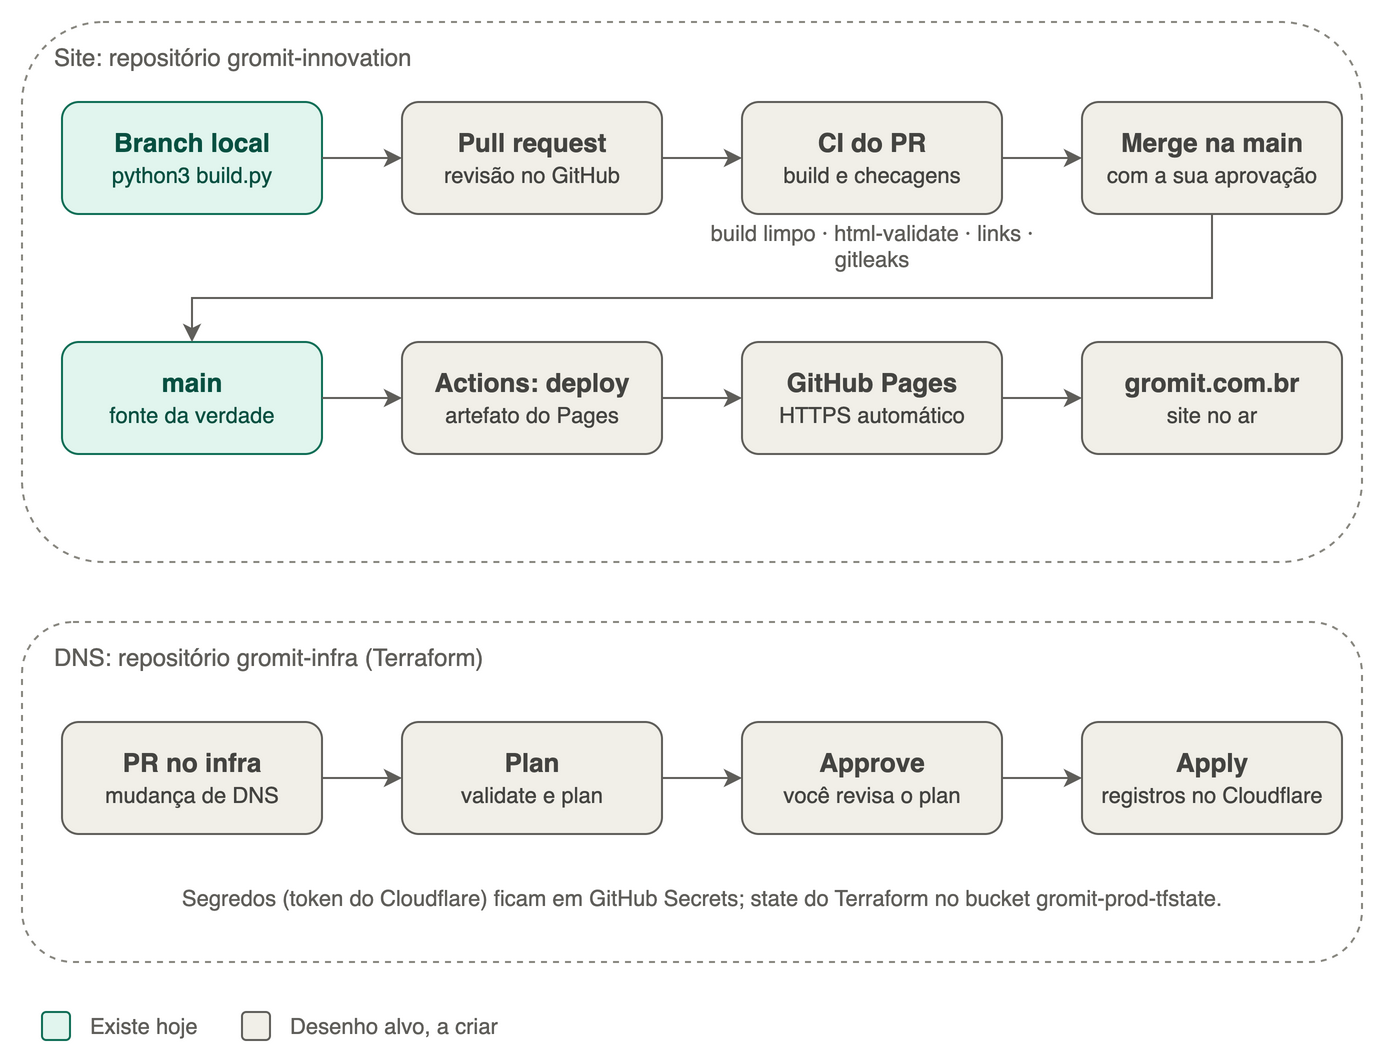
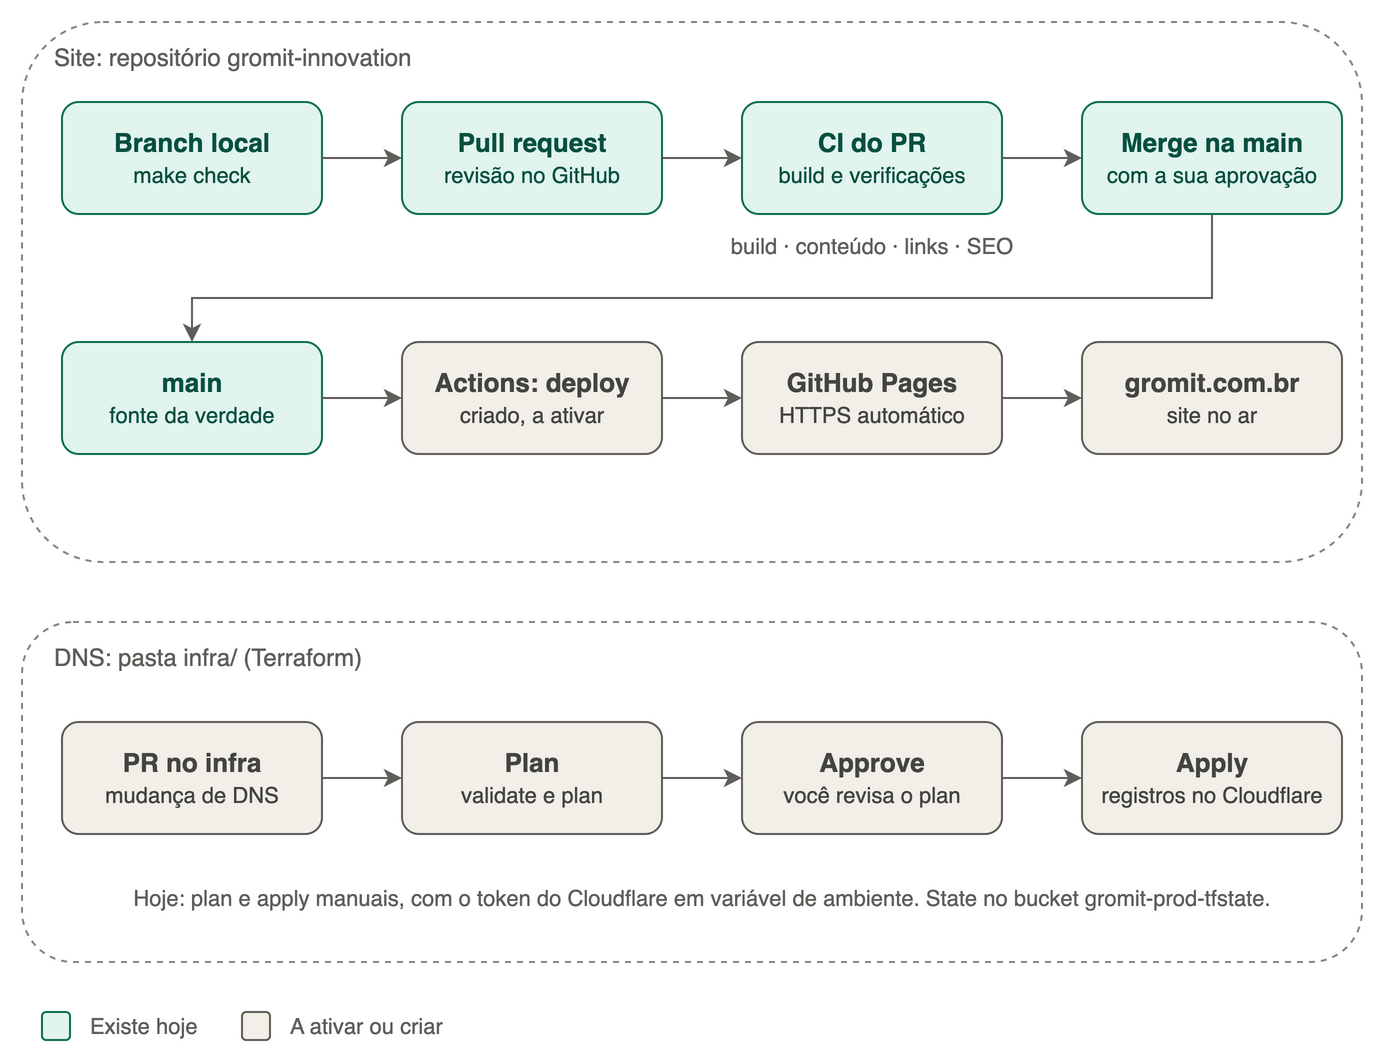
docs: README com stack e diagramas draw.io atualizados

diff --git a/README.md b/README.md
@@ -1,0 +1,142 @@
+# Gromit Innovation: site institucional
+
+Site estático da **Gromit Innovation** (consultoria em SRE, DevOps e Cloud), publicado em
+[gromit.com.br](https://gromit.com.br). Sem framework e sem banco de dados: o conteúdo mora em
+`frontend/src`, um build em Python gera o HTML e o resultado é servido pelo GitHub Pages.
+
+> Estado atual: repositório **privado**, site **ainda não publicado**. Veja [Publicação](#publicação).
+
+## Arquitetura
+
+Os diagramas são arquivos [draw.io](https://www.drawio.com) editáveis, em [`docs/`](docs). Cada PNG tem o `.drawio` ao lado.
+
+### Visão geral
+![Visão geral](docs/gromit-site-arquitetura.png)
+
+### Infraestrutura e entrega
+Domínio no Registro.br, DNS no Cloudflare (só DNS, sem proxy), hospedagem no GitHub Pages, e-mail no iCloud+.
+Fonte: [`gromit-site-infra.drawio`](docs/gromit-site-infra.drawio)
+
+![Infraestrutura](docs/gromit-site-infra.png)
+
+### Dev e arquitetura do código
+Fonte: [`gromit-site-dev-arquitetura.drawio`](docs/gromit-site-dev-arquitetura.drawio)
+
+![Dev e arquitetura](docs/gromit-site-dev-arquitetura.png)
+
+### CI/CD
+Fonte: [`gromit-site-cicd.drawio`](docs/gromit-site-cicd.drawio). Em verde o que existe, em cinza o que falta ativar.
+
+![CI/CD](docs/gromit-site-cicd.png)
+
+## Tecnologias
+
+| Camada | Tecnologia | Uso |
+|---|---|---|
+| Front-end | HTML5, CSS3, JavaScript (sem framework) | Páginas, tema com custom properties, responsivo, `prefers-reduced-motion`, reveal com `IntersectionObserver` |
+| Front-end | Google Fonts (Space Grotesk, JetBrains Mono) | Tipografia |
+| Front-end | SVG | Favicon |
+| Build e qualidade | Python 3.12, só biblioteca padrão | `build.py` gera o site; `check.py` valida conteúdo, links e SEO |
+| Build e qualidade | Make, EditorConfig | Atalhos locais e estilo de código |
+| CI/CD | GitHub Actions | Verificação em PR e deploy no Pages |
+| CI/CD | Dependabot, CODEOWNERS | Atualização das Actions e do provider, revisor padrão |
+| Hospedagem | GitHub Pages | Servidor estático com HTTPS automático |
+| Infra como código | Terraform (>= 1.5) e provider Cloudflare (~> 5) | Registros DNS do site |
+| Infra como código | Google Cloud Storage | State remoto e versionado (`gromit-prod-tfstate`) |
+| Domínio e DNS | Registro.br, Cloudflare | Registro do domínio e zona DNS |
+| E-mail | iCloud+ (domínio próprio) | Caixa `@gromit.com.br` |
+| Formulário | Formspree | Envio do formulário de contato, sem servidor próprio |
+| Documentação | draw.io | Diagramas versionados |
+
+## Estrutura
+
+```
+.
+├── frontend/              site
+│   ├── src/               conteúdo: uma página .html por arquivo (título e descrição em comentário)
+│   ├── public/            copiado como está para o dist: css, js, logos, favicon, CV, CNAME
+│   ├── build.py           layout (head, menu, rodapé), sitemap e robots; gera frontend/dist
+│   ├── check.py           verificações de conteúdo, links e SEO
+│   └── dist/              saída do build (não versionada)
+├── infra/                 Terraform: registros DNS do site no Cloudflare
+├── docs/                  diagramas draw.io e PNG
+├── .github/               workflows, dependabot e CODEOWNERS
+├── Makefile
+└── README.md
+```
+
+Não existe back-end de aplicação: o formulário usa o Formspree. Se um dia houver uma API (por exemplo,
+formulário próprio), ela entra em uma pasta `backend/`, separada do front-end.
+
+## Como rodar
+
+Requisito: Python 3.12 ou superior.
+
+```bash
+make build     # gera frontend/dist
+make check     # build + verificações (o mesmo que o CI roda)
+make serve     # build + servidor local em http://localhost:8099
+make clean     # remove frontend/dist
+```
+
+Para criar ou editar uma página, mexa em `frontend/src/`. A URL de cada arquivo está no dicionário
+`PAGES` do `build.py`; menu e rodapé ficam em `LAYOUT` e `NAV`.
+
+## Verificações (`frontend/check.py`)
+
+O `check.py` falha o build se encontrar:
+
+- página sem `lang`, `<title>`, meta description ou canonical absoluto, ou com título/descrição repetidos;
+- link ou recurso interno inexistente, `<img>` sem `alt`, `target="_blank"` sem `rel="noopener"`;
+- página fora do `sitemap.xml`;
+- **regras de conteúdo**: telefone, e-mail, nome de empregador atual ou link para repositório privado no HTML.
+
+## CI/CD
+
+- **CI (`.github/workflows/ci.yml`)**: em todo pull request, roda `build.py` e `check.py`.
+- **Deploy (`.github/workflows/deploy.yml`)**: em push na `main`, gera o site e publica no GitHub Pages.
+  Fica **desligado** até a variável de repositório `PAGES_ENABLED` valer `true`.
+- Todas as Actions estão fixadas por SHA de commit, com permissões mínimas, `concurrency` e `timeout`.
+- Segredos: nenhum no repositório. O token do Cloudflare, usado no Terraform, vive só em variável de ambiente.
+
+## Publicação
+
+O Pages gratuito exige repositório público. Antes de tornar público, confirme que o histórico não tem dados
+pessoais (o CV atual já foi gerado sem telefone e e-mail).
+
+1. Tornar o repositório público.
+2. Settings > Pages > Source: **GitHub Actions**.
+3. Settings > Secrets and variables > Actions > Variables: criar `PAGES_ENABLED` = `true`.
+4. Aplicar o DNS (abaixo) e, em Settings > Pages, confirmar o domínio `gromit.com.br` e ativar **Enforce HTTPS**.
+
+## Infra (DNS)
+
+```bash
+cd infra
+export CLOUDFLARE_API_TOKEN=...        # token com permissão de edição de DNS na zona
+cp terraform.tfvars.example terraform.tfvars   # preencher zone_id
+terraform init
+terraform plan
+terraform apply
+```
+
+Os registros de e-mail do iCloud+ (MX, SPF, DKIM) já existem na zona e **não** são gerenciados por este Terraform.
+
+## Convenções
+
+- Commits em português, no formato `tipo: resumo` (`feat`, `fix`, `docs`, `ci`, `chore`).
+- Mudanças entram por pull request; o `CODEOWNERS` pede revisão do responsável.
+- O diretório `frontend/dist` nunca é commitado; o CI gera e publica.
+
+## Segurança e privacidade
+
+- Nenhum telefone, e-mail ou segredo em páginas públicas (garantido pelo `check.py`).
+- Nenhuma menção a empregadores atuais; clientes citados só de experiências passadas.
+- O formulário de contato envia os dados ao Formspree; o site não os armazena.
+
+## Pendências
+
+- Confirmar o formulário do Formspree e adicionar aviso de privacidade (LGPD).
+- Definir a licença do repositório.
+- Revisar datas e textos do CV e das páginas.
+- Ativar o deploy no Pages e aplicar o DNS.
